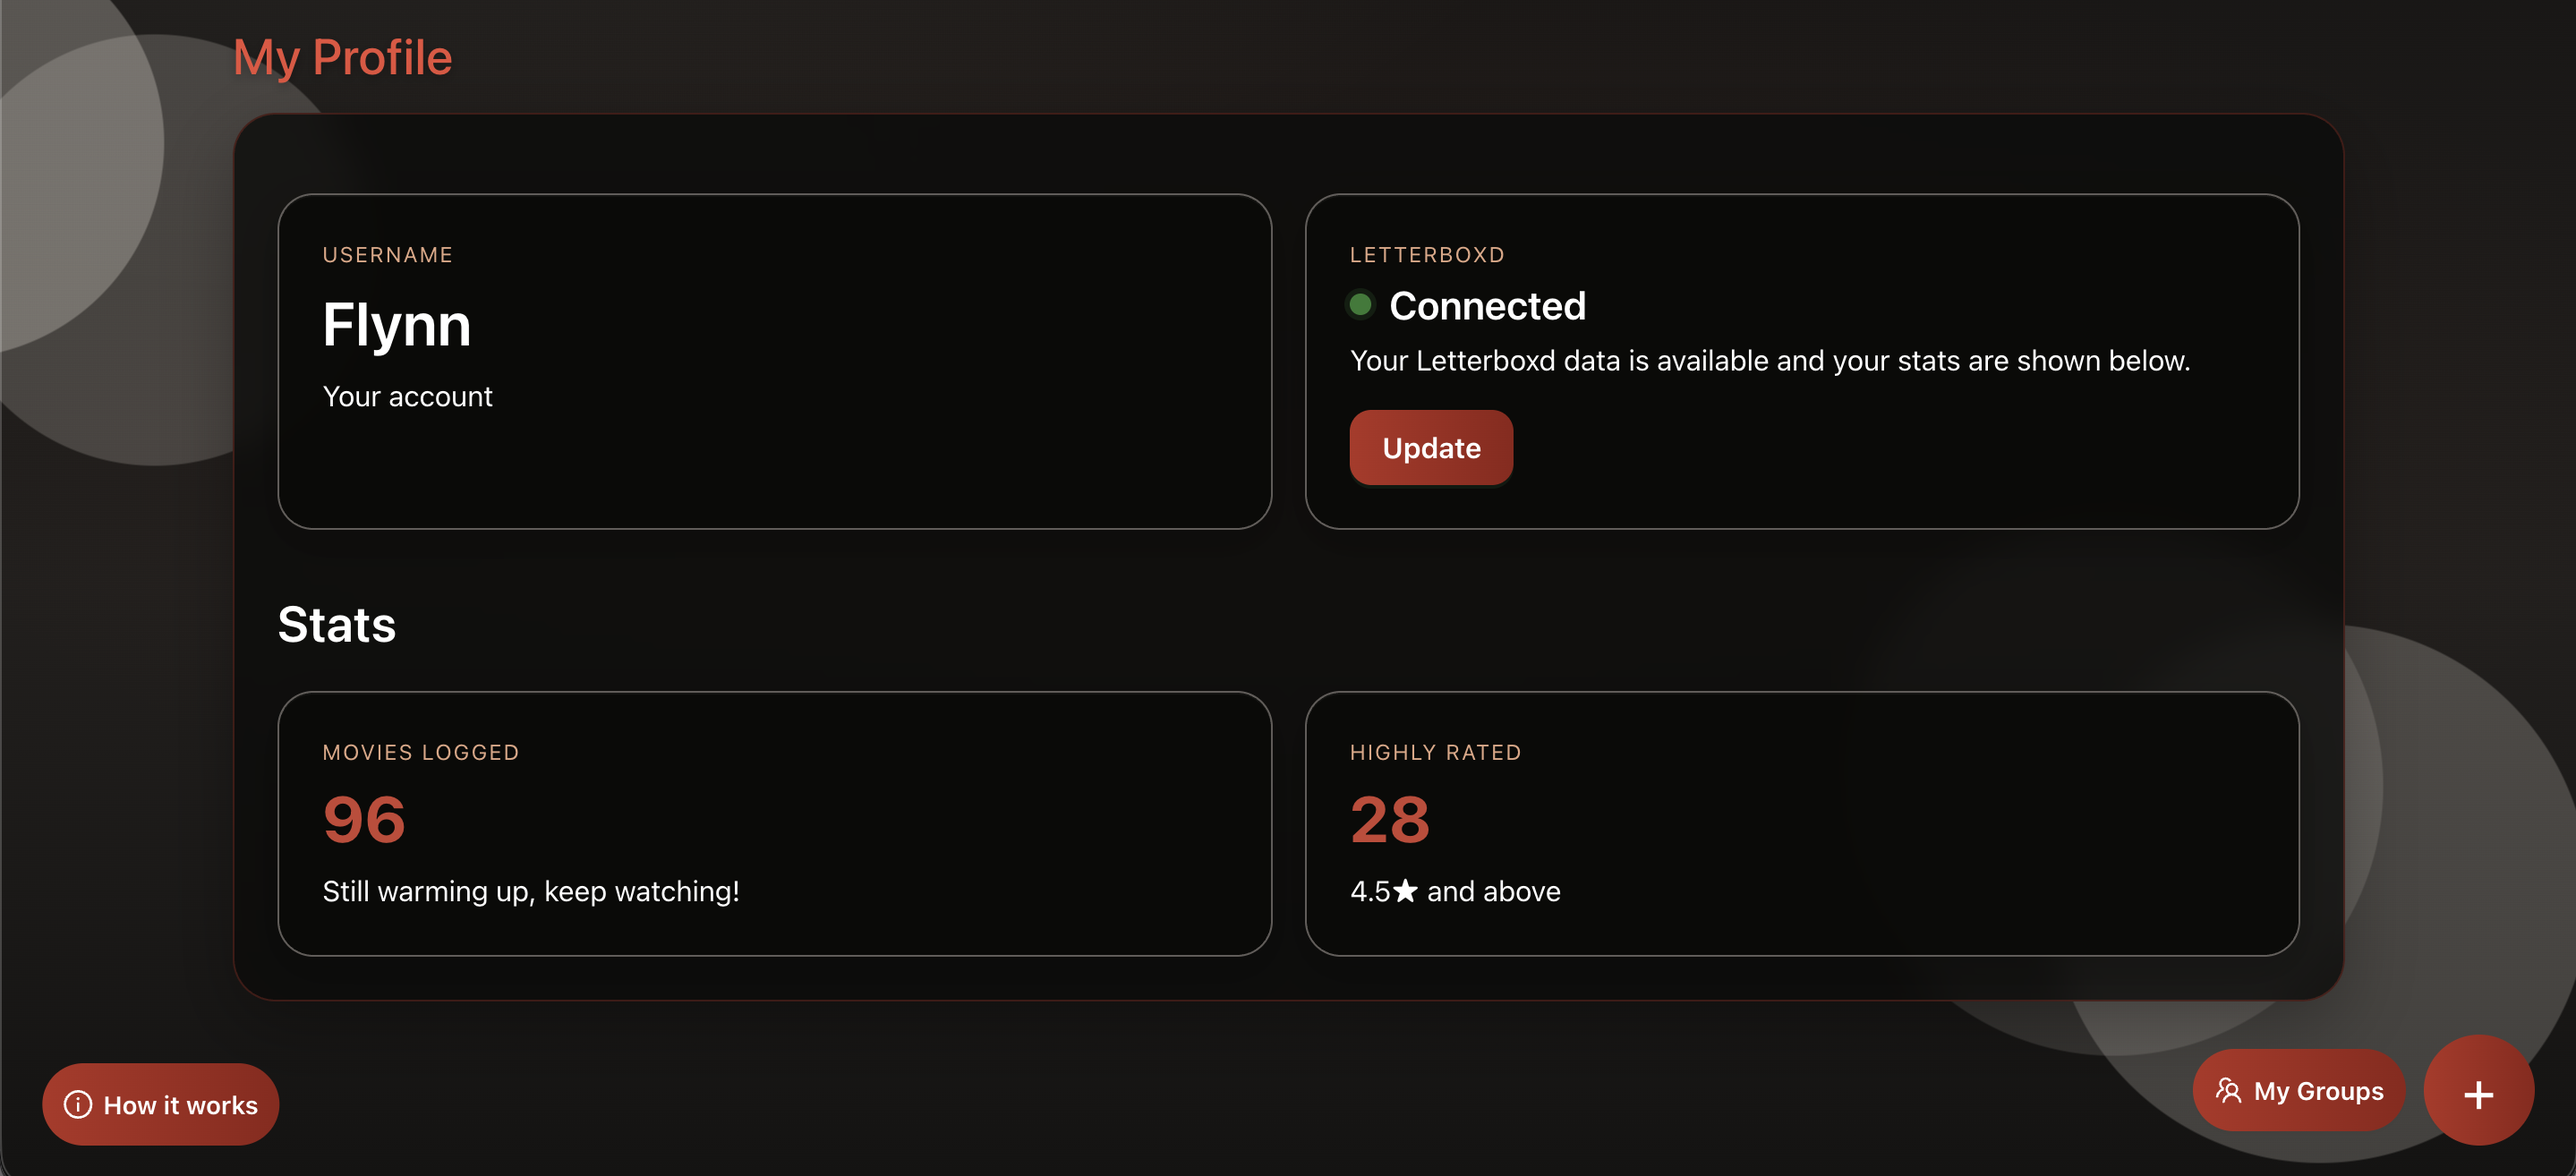
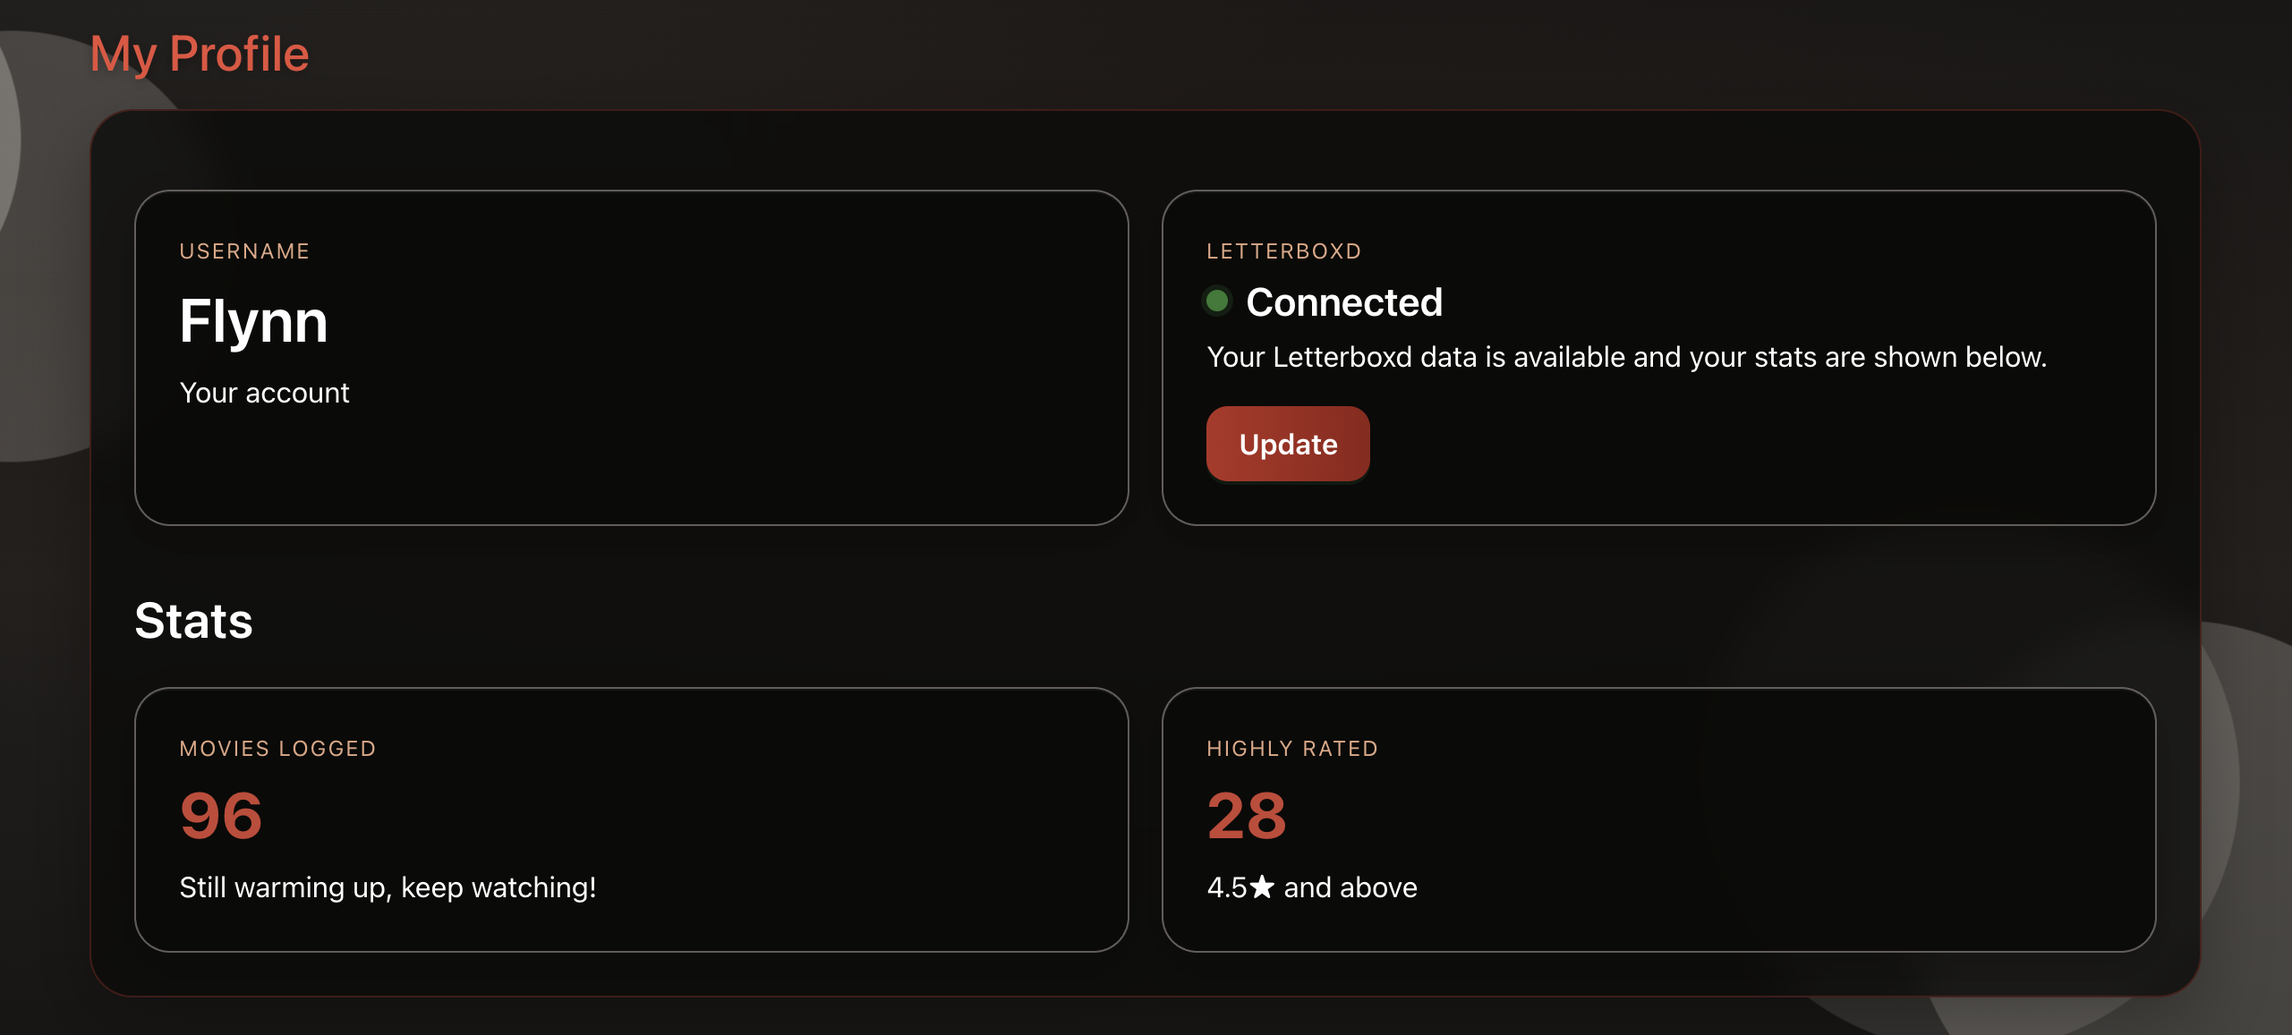
More changes to project

diff --git a/index.html b/index.html
@@ -250,21 +250,15 @@
     }
 
     /* PROJECT */
-    a.project-card-link {
-      display: block;
-      text-decoration: none;
-    }
-
     .project-card {
       border: 1px solid var(--border);
       padding: 2rem;
       background: var(--bg2);
-      transition: border-color 0.2s, transform 0.2s;
+      transition: border-color 0.2s;
       display: flex;
       flex-direction: column;
-      cursor: pointer;
     }
-    a.project-card-link:hover .project-card { border-color: #aaa; transform: translateY(-2px); }
+    .project-card:hover { border-color: #aaa; }
 
     .project-content {
       display: flex;
